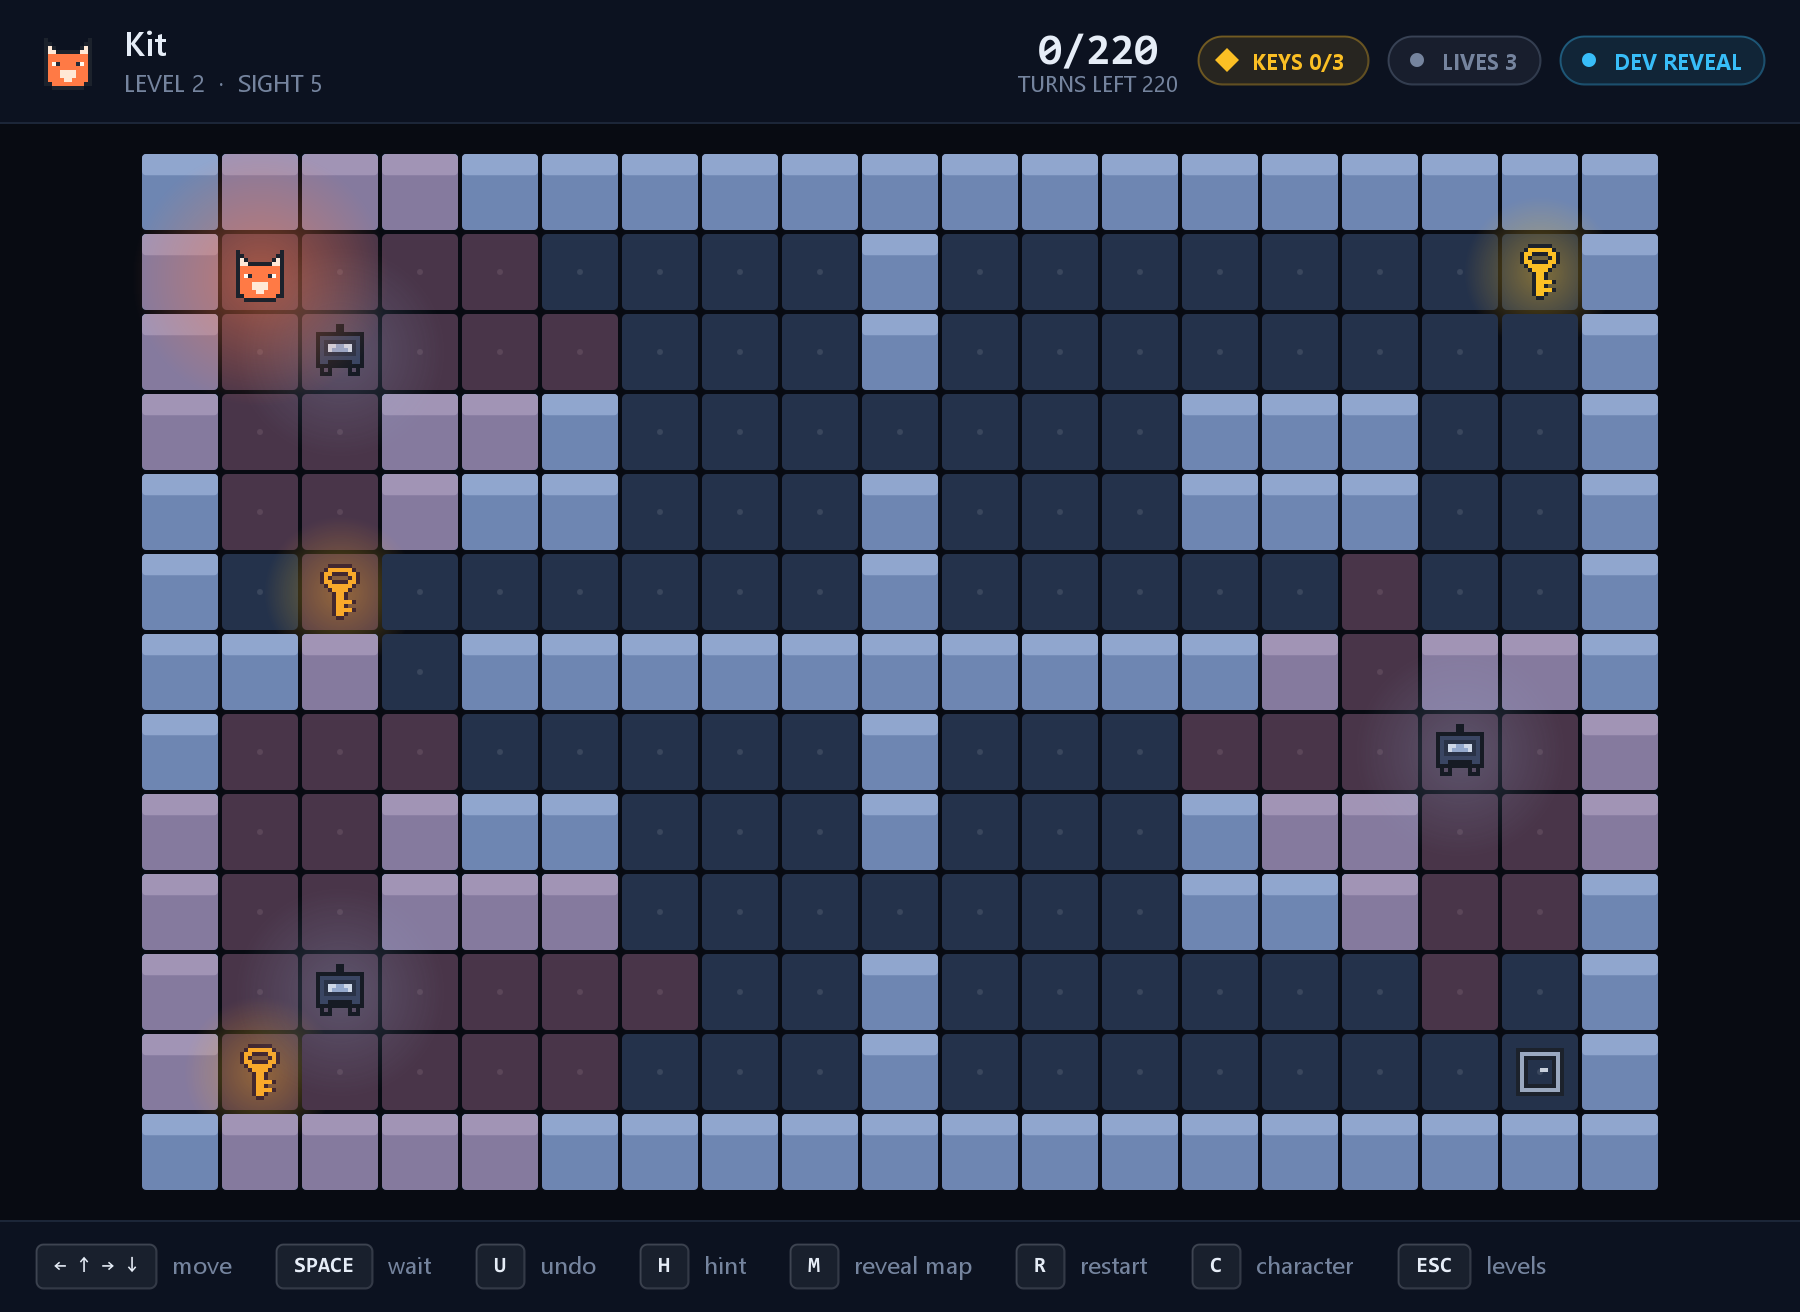
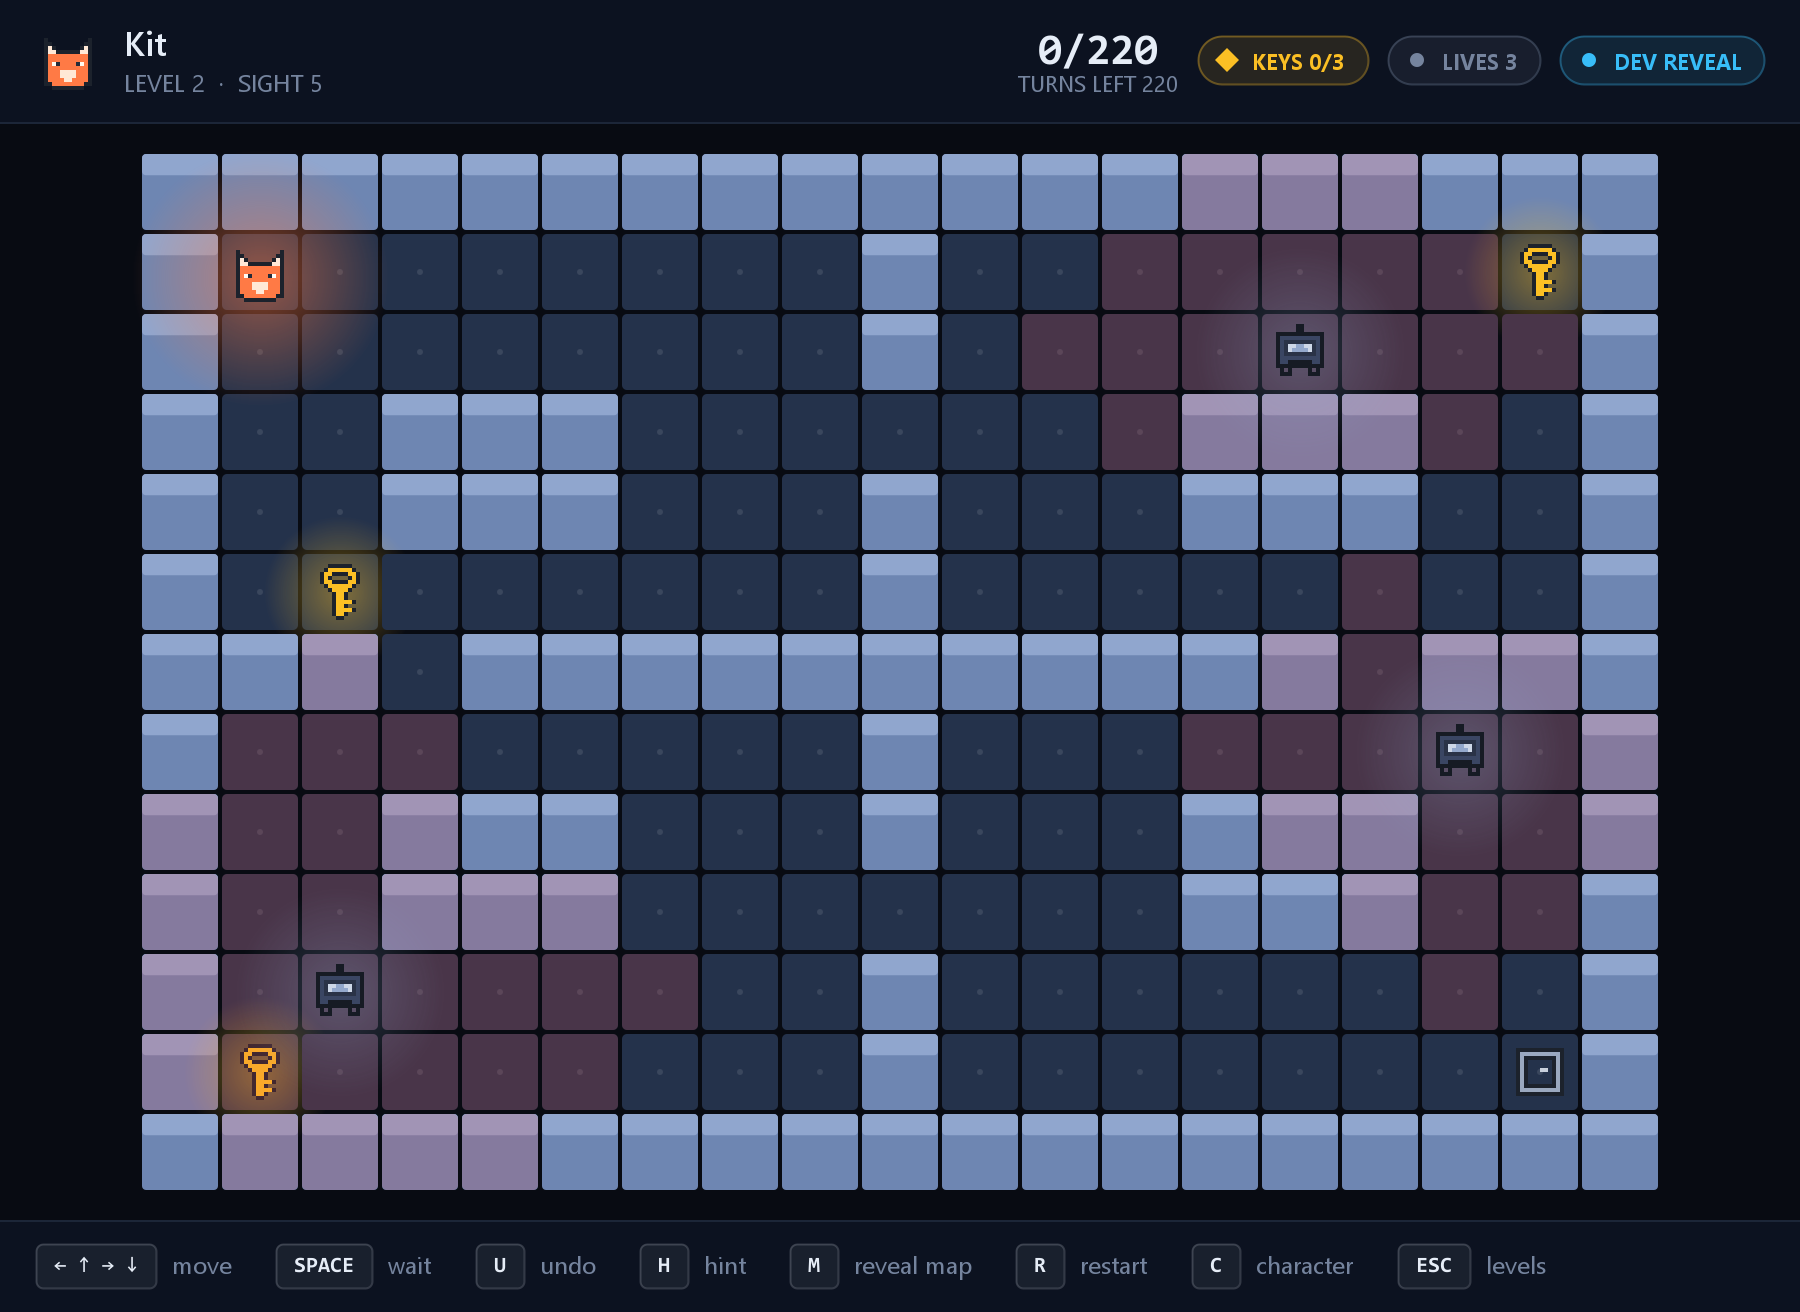
Make the hint one arrow instead of a route
A hint that draws the next seven tiles is not a hint, it is a solution. It answers the whole level rather than the turn in front of the player, most of it runs through fog they cannot see into, and reading it is a different job from playing.

Pressing H now puts a single arrow on the tile to step onto next. One direction, from where they are standing, and they can ask again after they have moved.

The routing underneath is unchanged and was never the problem: traced over level 2 it walks to the first key in five turns and gives a sensible direction on every one of them. What was wrong was the shape of the answer.

Changed region(s): [[0.56, 0.0938, 0.9022, 0.375], [0.0622, 0.0938, 0.3422, 0.5]]

diff --git a/src/main/java/com/signallost/ui/GamePanel.java b/src/main/java/com/signallost/ui/GamePanel.java
@@ -77,9 +77,6 @@ public final class GamePanel extends JPanel {
      */
     private final int tile;
 
-    /** How many steps of the route a hint gives away. */
-    private static final int HINT_STEPS = 7;
-
     private int animationFrame;
     private boolean showHint;
 
@@ -283,23 +280,38 @@ public final class GamePanel extends JPanel {
     }
 
     /**
-     * A trail of dots along the suggested route, fading out as it goes.
+     * One arrow on the tile to step onto next.
      *
-     * <p>Fading matters: a trail of equal dots looks like an instruction, while
-     * one that dissolves looks like a suggestion that runs out, which is what a
-     * hint that only shows the next few steps actually is.
+     * <p>It used to draw the next seven tiles as a fading trail, which is a
+     * route rather than a hint: it answers the whole level at once, most of it
+     * through fog the player cannot see into, and none of it tells them what to
+     * do with the turn in front of them. An arrow on the neighbouring tile says
+     * one thing, and they can ask again after they have moved.
      */
     private void drawHint(Graphics2D g) {
-        List<Position> route = state.hintRoute(HINT_STEPS);
-        for (int i = 0; i < route.size(); i++) {
-            Rectangle2D bounds = tileBounds(route.get(i));
-            double fade = 1.0 - (double) i / route.size();
-            double dot = tile * (0.13 * fade + 0.05);
-
-            g.setColor(Palette.withAlpha(Palette.HINT, (int) (210 * fade)));
-            g.fill(new Ellipse2D.Double(
-                    bounds.getCenterX() - dot, bounds.getCenterY() - dot, dot * 2, dot * 2));
+        List<Position> route = state.hintRoute(1);
+        if (route.isEmpty()) {
+            return;
         }
+        Position step = route.get(0);
+        Rectangle2D bounds = tileBounds(step);
+        double cx = bounds.getCenterX();
+        double cy = bounds.getCenterY();
+
+        paintGlow(g, cx, cy, tile * 1.1, Palette.HINT, 120);
+        ObjectSprite.paintArrow(g, cx, cy, tile * 0.78, quarterTurnsTowards(step));
+    }
+
+    /** Which way the arrow points: 0 up, 1 right, 2 down, 3 left. */
+    private int quarterTurnsTowards(Position step) {
+        Position from = state.player();
+        if (step.row() < from.row()) {
+            return 0;
+        }
+        if (step.col() > from.col()) {
+            return 1;
+        }
+        return step.row() > from.row() ? 2 : 3;
     }
 
     // ---------------------------------------------------------------- guards

diff --git a/src/main/java/com/signallost/ui/ObjectSprite.java b/src/main/java/com/signallost/ui/ObjectSprite.java
@@ -101,7 +101,45 @@ public final class ObjectSprite {
             "................",
     };
 
+    /** The hint arrow, drawn pointing up and rotated to suit. */
+    private static final String[] ARROW = {
+            "................",
+            ".......BB.......",
+            "......BBBB......",
+            ".....BBBBBB.....",
+            "....BBBBBBBB....",
+            "...BBBBBBBBBB...",
+            "..BBBBBBBBBBBB..",
+            "..BBBBBBBBBBBB..",
+            ".....BBBBBB.....",
+            ".....BBBBBB.....",
+            ".....BBBBBB.....",
+            ".....BBBBBB.....",
+            ".....BBBBBB.....",
+            "................",
+            "................",
+            "................",
+    };
+
     private ObjectSprite() {
+    }
+
+    /**
+     * An arrow saying which way to go from here.
+     *
+     * <p>One arrow on the next tile rather than a trail across the map. A route
+     * drawn start to finish is a solution, and reading it is a different job
+     * from playing; a single direction is something the player can act on this
+     * turn and then ask again.
+     *
+     * @param quarterTurns 0 up, 1 right, 2 down, 3 left
+     */
+    public static void paintArrow(Graphics2D g, double cx, double cy, double size,
+                                  int quarterTurns) {
+        Graphics2D rotated = (Graphics2D) g.create();
+        rotated.rotate(Math.PI / 2 * quarterTurns, cx, cy);
+        PixelSprite.paint(rotated, ARROW, palette(Palette.HINT, 1.0), cx, cy, size);
+        rotated.dispose();
     }
 
     /**

diff --git a/README.md b/README.md
@@ -272,66 +272,24 @@ is about getting out. The second is about getting out clean.
 
 ## Hints
 
-Press `H` for a trail of dots towards whatever you need next — the key, or the
-exit once you hold it.
+Press `H` and an arrow appears on the tile to step onto next. That is the whole
+hint: one direction, from where you are standing.
 
-The route is A\* again, but with **weighted costs**: tiles a guard is watching
-cost extra, so the hint prefers a longer way round over a short way into trouble.
-It is deliberately omniscient, accounting for guards you cannot see, and it only
-shows the next seven steps. It points, it does not solve.
+It used to draw the next seven tiles as a fading trail, and that was the wrong
+shape of help. A route drawn across the map answers the level rather than the
+turn, most of it runs through fog the player cannot see into, and reading it is
+a different job from playing. An arrow says one thing, and they can ask again
+after they have moved.
 
-## Keys
+The route behind it is A\* with **weighted costs**: tiles a guard is watching
+cost extra, and tiles near a guard cost more the closer it is — far more when
+that guard is hunting. Avoiding only what a guard can see right now is not
+advice you can survive on, because a hunter covers ground faster than the
+player, so by the time you reach a tile it was merely near, it is looking at
+you. The arrow aims at the **nearest** key still on the floor, then at the exit.
 
-The exit needs **every** key on the level, not one. Level 1 has three, in three
-different corners.
-
-One key made a level a straight line: find it, walk out, and after two attempts
-you knew the route. Three force the player across the map and, more to the
-point, back again past guards who are now looking for them. `GameState` counts
-the keys on the map at load, so a level decides how many it wants simply by how
-many it draws.
-
-The hint points at the **nearest** key still on the floor, so it sends you to the
-one in front of you rather than back across the level.
-
-## Profile and progress
-
-The game asks who is playing, then keeps their best run on every level in
-`~/.signal-lost/progress.properties` — a plain text file, no library, readable
-and deletable by hand:
-
-```
-player.name=Uzma
-level1.stars=3
-level1.turns=58
-level1.sightings=0
-```
-
-Only an improvement is kept. More stars always wins; between runs with the same
-stars, fewer turns wins, then fewer sightings. That matters here more than in
-most games, because the stealth star rewards a slow careful route — without a
-best-of rule, a player chasing it would watch their fast two-star time get
-overwritten by every failed attempt.
-
-Nothing in the store throws at the caller. A profile that cannot be read is a
-fresh profile, and one that cannot be written is a lost high score; neither is
-worth taking the game down for.
-
-## Level select
-
-One box per level, showing the stars earned on it and the best run. A list of
-level names tells a player what exists; a grid of boxes with two of three stars
-filled in tells them what is left to do, which is the only reason to replay a
-level they have already beaten. Levels are locked until the player has enough
-stars across all of them, so stars are a currency rather than decoration.
-
-The levels themselves come from `/levels/index.txt`, so adding one is adding a
-text file and a line, with nothing to recompile:
-
-```
-level1 0
-level2 1
-```
+It is deliberately omniscient, accounting for guards you cannot see. That is the
+point of a hint, and the reason it is something you choose to turn on.
 
 ## Levels
 
